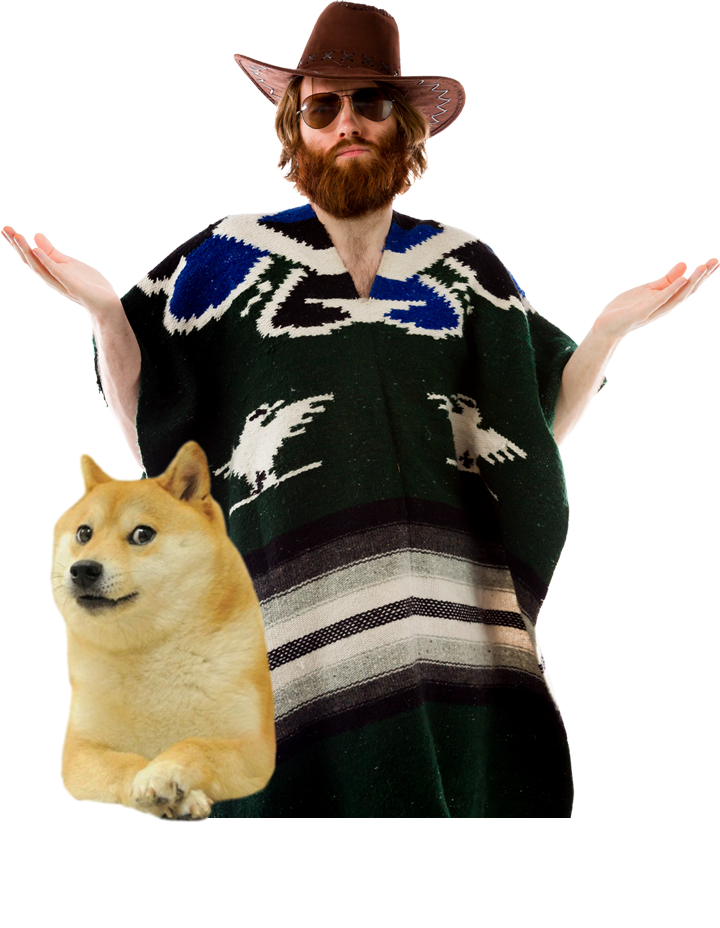
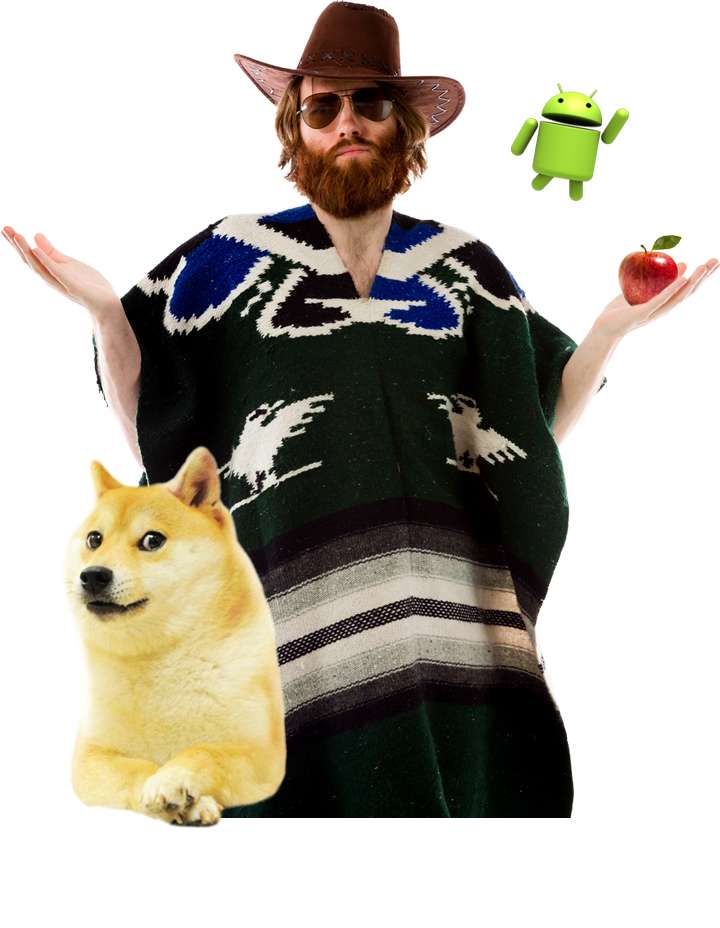
Add flying android and apple

Changed region(s): [[0.0611, 0.4688, 0.3972, 0.9062], [0.7028, 0.0938, 0.8861, 0.2188], [0.8556, 0.25, 0.9472, 0.3438]]

diff --git a/css/main.css b/css/main.css
@@ -446,7 +446,6 @@ box-shadow: 0 2px 5px 0 rgba(0, 0, 0, 0.36);
 	height: 700px;
 	width: 50%;
 	position: absolute;
-	opacity: .9;
 	left: 0px;
 }
 .appdownload h3 b {
@@ -477,7 +476,7 @@ box-shadow: 0 2px 5px 0 rgba(0, 0, 0, 0.36);
 	font-style: normal
 }
 .realtalk {
-	background: #212121;
+	background: #F5F5F5;
 	height: 700px;
 	padding-bottom: 160px;
 }
